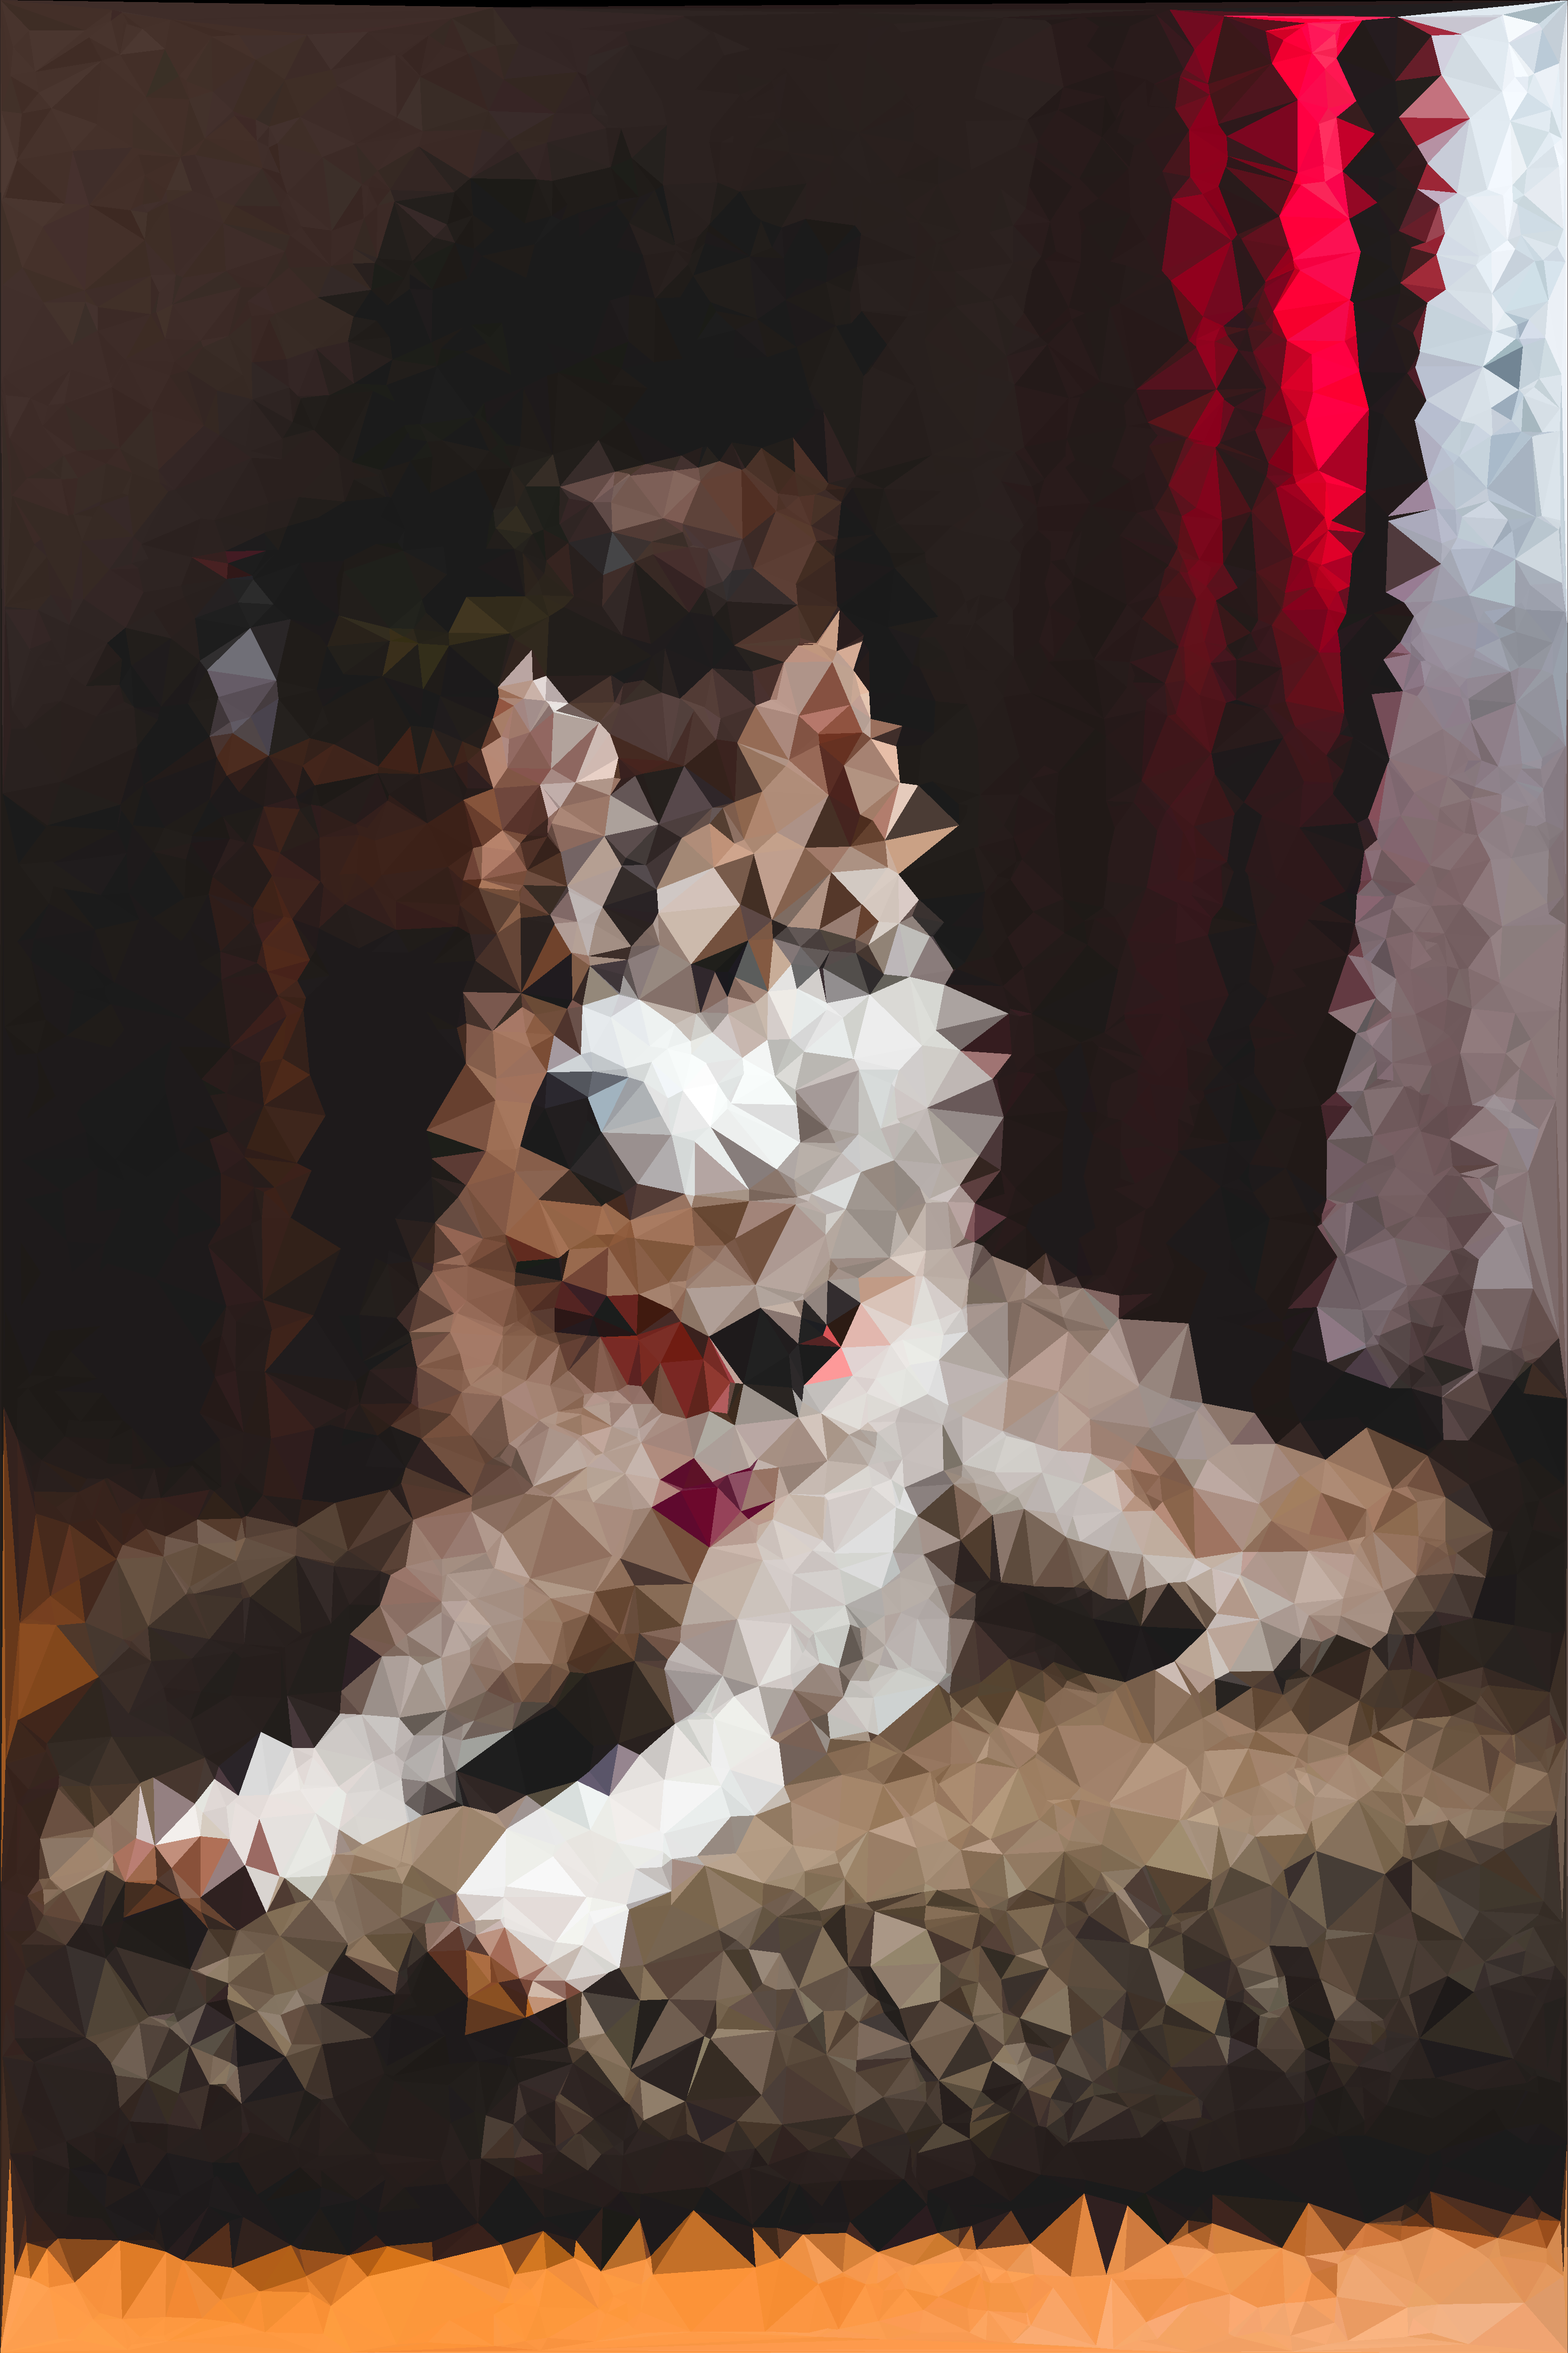
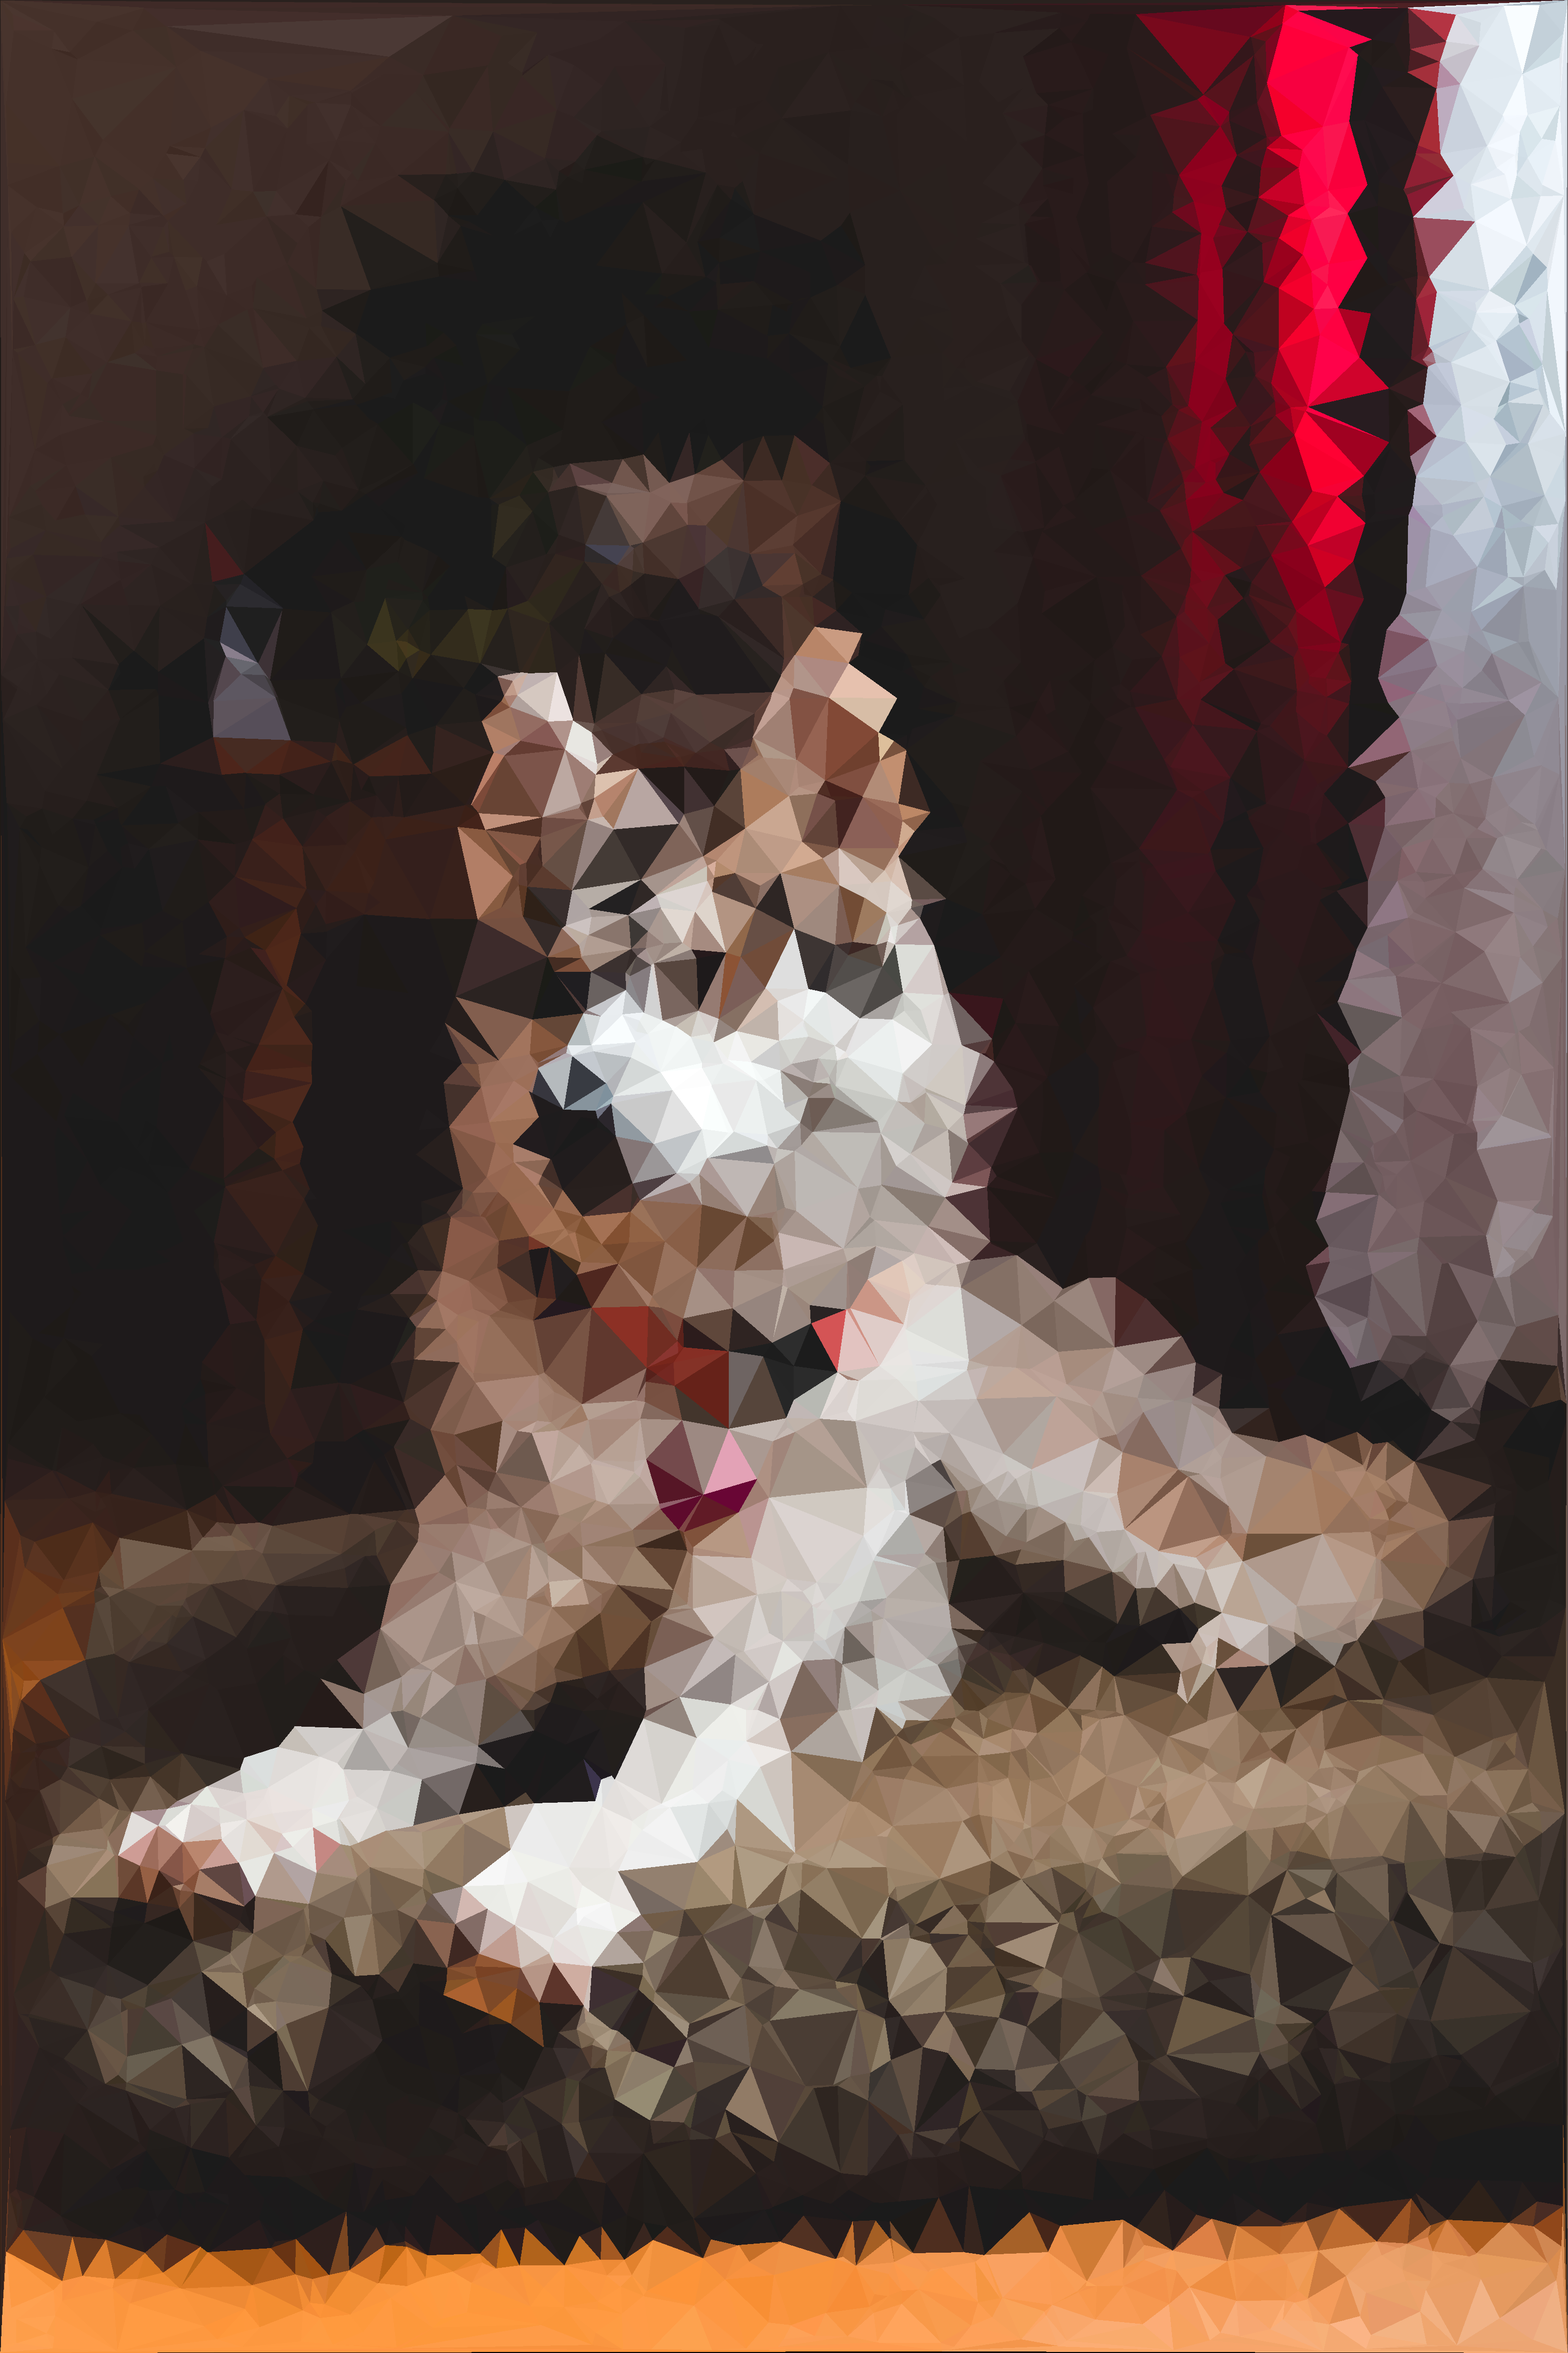
Temporary version for now, works ok but not optimal.

diff --git a/polify_demo/index.ts b/polify_demo/index.ts
@@ -34,37 +34,33 @@ class PolifyDemo {
     const edgeThresholdSlider: HTMLInputElement = document.getElementById(
       "edge-threshold"
     ) as HTMLInputElement;
-    const highThresholdSlider: HTMLInputElement = document.getElementById(
-      "high-threshold"
-    ) as HTMLInputElement;
-    const lowThresholdSlider: HTMLInputElement = document.getElementById(
-      "low-threshold"
-    ) as HTMLInputElement;
 
     // Also forcefully reset values to stock.
-
-    maxVerticesSlider.onmouseup = () => {
-      this.polifyConfig.max_vertices = parseInt(maxVerticesSlider.value);
-    };
-
-    edgeThresholdSlider.onmouseup = () => {
-      this.polifyConfig.edge_threshold = parseFloat(edgeThresholdSlider.value);
-    };
-
-    highThresholdSlider.onmouseup = () => {
-      this.polifyConfig.high_threshold = parseFloat(highThresholdSlider.value);
-    };
-
-    lowThresholdSlider.onmouseup = () => {
-      this.polifyConfig.low_threshold = parseFloat(lowThresholdSlider.value);
-    };
+    maxVerticesSlider.value = "1000";
+    edgeThresholdSlider.value = "10.0";
 
     this.polifyConfig = polify.TriangulationConfig.new(
       parseFloat(maxVerticesSlider.value),
       parseFloat(edgeThresholdSlider.value),
-      parseFloat(lowThresholdSlider.value),
-      parseFloat(highThresholdSlider.value)
+      0.05,
+      5.0
     );
+
+    maxVerticesSlider.onmouseup = () => {
+      const newValue = parseInt(maxVerticesSlider.value);
+      if (this.polifyConfig.edge_threshold != newValue) {
+        this.polifyConfig.max_vertices = newValue;
+        this.buildImage();
+      }
+    };
+
+    edgeThresholdSlider.onmouseup = () => {
+      const newValue = parseFloat(edgeThresholdSlider.value);
+      if (this.polifyConfig.edge_threshold != newValue) {
+        this.polifyConfig.edge_threshold = newValue;
+        this.buildImage();
+      }
+    };
 
     this.buildImage();
 
@@ -139,6 +135,9 @@ class PolifyDemo {
         this.buildImage();
       }
     });
+    pasteImageInput.value = ""; // Init to be empty and disabled.
+    pasteImageButton.setAttribute("disabled", "");
+
     pasteImageInput.addEventListener("input", () => {
       if (pasteImageInput.value.length > 0) {
         pasteImageButton.removeAttribute("disabled");
@@ -194,7 +193,10 @@ class PolifyDemo {
           this.enableSliders();
           displayedImage.style.display = "block";
           progressBar.style.display = "none";
-          displayedImage.src = this.polyObjectUrl;
+
+          if (this.polyObjectUrl != null) {
+            displayedImage.src = this.polyObjectUrl;
+          }
         }
       }
     });
@@ -207,17 +209,9 @@ class PolifyDemo {
     const edgeThresholdSlider: HTMLInputElement = document.getElementById(
       "edge-threshold"
     ) as HTMLInputElement;
-    const highThresholdSlider: HTMLInputElement = document.getElementById(
-      "high-threshold"
-    ) as HTMLInputElement;
-    const lowThresholdSlider: HTMLInputElement = document.getElementById(
-      "low-threshold"
-    ) as HTMLInputElement;
 
     maxVerticesSlider.removeAttribute("disabled");
     edgeThresholdSlider.removeAttribute("disabled");
-    highThresholdSlider.removeAttribute("disabled");
-    lowThresholdSlider.removeAttribute("disabled");
   }
 
   disableSliders() {
@@ -227,17 +221,9 @@ class PolifyDemo {
     const edgeThresholdSlider: HTMLInputElement = document.getElementById(
       "edge-threshold"
     ) as HTMLInputElement;
-    const highThresholdSlider: HTMLInputElement = document.getElementById(
-      "high-threshold"
-    ) as HTMLInputElement;
-    const lowThresholdSlider: HTMLInputElement = document.getElementById(
-      "low-threshold"
-    ) as HTMLInputElement;
 
     maxVerticesSlider.setAttribute("disabled", "disabled");
     edgeThresholdSlider.setAttribute("disabled", "disabled");
-    highThresholdSlider.setAttribute("disabled", "disabled");
-    lowThresholdSlider.setAttribute("disabled", "disabled");
   }
 
   // preprocessImage(): polify.WasmPreprocessedImage | null {
@@ -346,7 +332,6 @@ class PolifyDemo {
       if (this.showPoly) {
         this.enableSliders();
       }
-      console.log("Done.");
     };
   }
 }

diff --git a/polify_demo/index.html b/polify_demo/index.html
@@ -68,8 +68,8 @@
             </div>
             <div class="column">
               <div class="is-flex is-flex-direction-row">
-                <input id="max-vertices" class="slider has-output" min="100" max="10000" value="500" step="1" disabled="disabled" type="range">
-                <output for="max-vertices">500</output>
+                <input id="max-vertices" class="slider has-output" min="100" max="50000" value="1000" step="1" disabled="disabled" type="range">
+                <output for="max-vertices">1000</output>
               </div>
             </div>
           </div>
@@ -82,40 +82,12 @@
             </div>
             <div class="column">
               <div class="is-flex is-flex-direction-row">
-                <input id="edge-threshold" class="slider has-output" min="0.0" max="500.0" value="10.0" step="0.1" disabled="disabled" type="range">
+                <input id="edge-threshold" class="slider has-output" min="0.0" max="200.0" value="10.0" step="0.1" disabled="disabled" type="range">
                 <output for="edge-threshold">10.0</output>
               </div>
             </div>
           </div>
 
-          <div class="columns is-vcentered">
-            <div class="column is-one-fifth">
-              <p class="subtitle">
-                Low threshold
-              </p>
-            </div>
-            <div class="column">
-              <div class="is-flex is-flex-direction-row">
-                <input id="low-threshold" class="slider has-output" min="0.01" max="5.0" value="0.05" step="0.01" disabled="disabled" type="range">
-                <output for="low-threshold">0.05</output>
-              </div>
-            </div>
-          </div>
-
-          <div class="columns is-vcentered">
-            <div class="column is-one-fifth">
-              <p class="subtitle">
-                High threshold
-              </p>
-            </div>
-            <div class="column">
-              <div class="is-flex is-flex-direction-row">
-                <input id="high-threshold" class="slider has-output" min="1.0" max="1140" value="10.0" step="0.01" disabled="disabled" type="range">
-                <output for="high-threshold">10.0</output>
-              </div>
-            </div>
-          </div>
-        </div>
 
         <div class="block" style="display: block;">
           <div class="is-flex is-justify-content-center is-align-content-center">

diff --git a/polify_demo/build.worker.ts b/polify_demo/build.worker.ts
@@ -29,17 +29,22 @@ ctx.addEventListener("message", (event) => {
           let resp: Response = polyImage.build();
           let polyBlob: any = null;
 
-          resp
-            .blob()
-            .then((blob: Object) => {
-              polyBlob = blob;
-            })
-            .catch((err: any) => {
-              console.error("Error while opening blob:" + err);
-            })
-            .finally(() => {
-              ctx.postMessage(polyBlob);
-            });
+          if (resp.ok) {
+            resp
+              .blob()
+              .then((blob: Object) => {
+                polyBlob = blob;
+              })
+              .catch((err: any) => {
+                console.error("Error while opening blob:" + err);
+              })
+              .finally(() => {
+                ctx.postMessage(polyBlob);
+              });
+          } else {
+            console.error("Polify threw an error while building.");
+            ctx.postMessage(null);
+          }
         })
         .catch((err: any) => {
           console.error("Error while building image: " + err);

diff --git a/src/wasm_triangulation.rs b/src/wasm_triangulation.rs
@@ -72,24 +72,30 @@ impl WasmImage {
 
     /// Builds an image from a `WasmImage`.
     pub fn build(self) -> JsValue {
-        let response = self.image_box.and_then(move |info| {
-            // We'll use the same headers, but remove length
-            let headers = web_sys::Headers::new_with_headers(&info.headers)?;
-            headers.delete("Content-Length")?;
-            // Write to a buffer
-            let mut buf = Cursor::new(Vec::new());
-            info.image
-                .write_to(&mut buf, info.format)
-                .map_err(err_img_to_js)?;
+        let response = self
+            .image_box
+            .and_then(move |info| {
+                // We'll use the same headers, but remove length
+                let headers = web_sys::Headers::new_with_headers(&info.headers)?;
+                headers.delete("Content-Length")?;
+                // Write to a buffer
+                let mut buf = Cursor::new(Vec::new());
+                info.image
+                    .write_to(&mut buf, info.format)
+                    .map_err(err_img_to_js)?;
 
-            // Build the response
-            let body = js_sys::Uint8Array::from(buf.get_ref().as_slice());
-            let resp = web_sys::Response::new_with_opt_buffer_source_and_init(
-                Some(&body),
-                web_sys::ResponseInit::new().headers(&headers),
-            )?;
-            Ok(JsValue::from(resp))
-        });
+                // Build the response
+                let body = js_sys::Uint8Array::from(buf.get_ref().as_slice());
+                let resp = web_sys::Response::new_with_opt_buffer_source_and_init(
+                    Some(&body),
+                    web_sys::ResponseInit::new().headers(&headers),
+                )?;
+                Ok(JsValue::from(resp))
+            })
+            .or_else(|_err| {
+                let resp = web_sys::Response::error();
+                Ok(JsValue::from(resp))
+            });
 
         match response {
             Ok(resp) => resp,

diff --git a/src/error.rs b/src/error.rs
@@ -21,9 +21,6 @@ pub enum PolifyError {
     /// An error during preproccessing.
     #[error("preprocessing failed")]
     PreProcessing,
-    /// An error during RGB conversion.
-    #[error("rgb conversion failed")]
-    RgbConversion,
     /// An error during Luma conversion.
     #[error("luma conversion failed")]
     LumaConversion,
@@ -34,6 +31,6 @@ pub type Result<T> = std::result::Result<T, PolifyError>;
 
 impl From<PolifyError> for wasm_bindgen::JsValue {
     fn from(err: PolifyError) -> Self {
-        wasm_bindgen::JsValue::from_str(err.to_string().as_str())
+        wasm_bindgen::JsValue::from(format!("Error: {}", err.to_string()))
     }
 }
